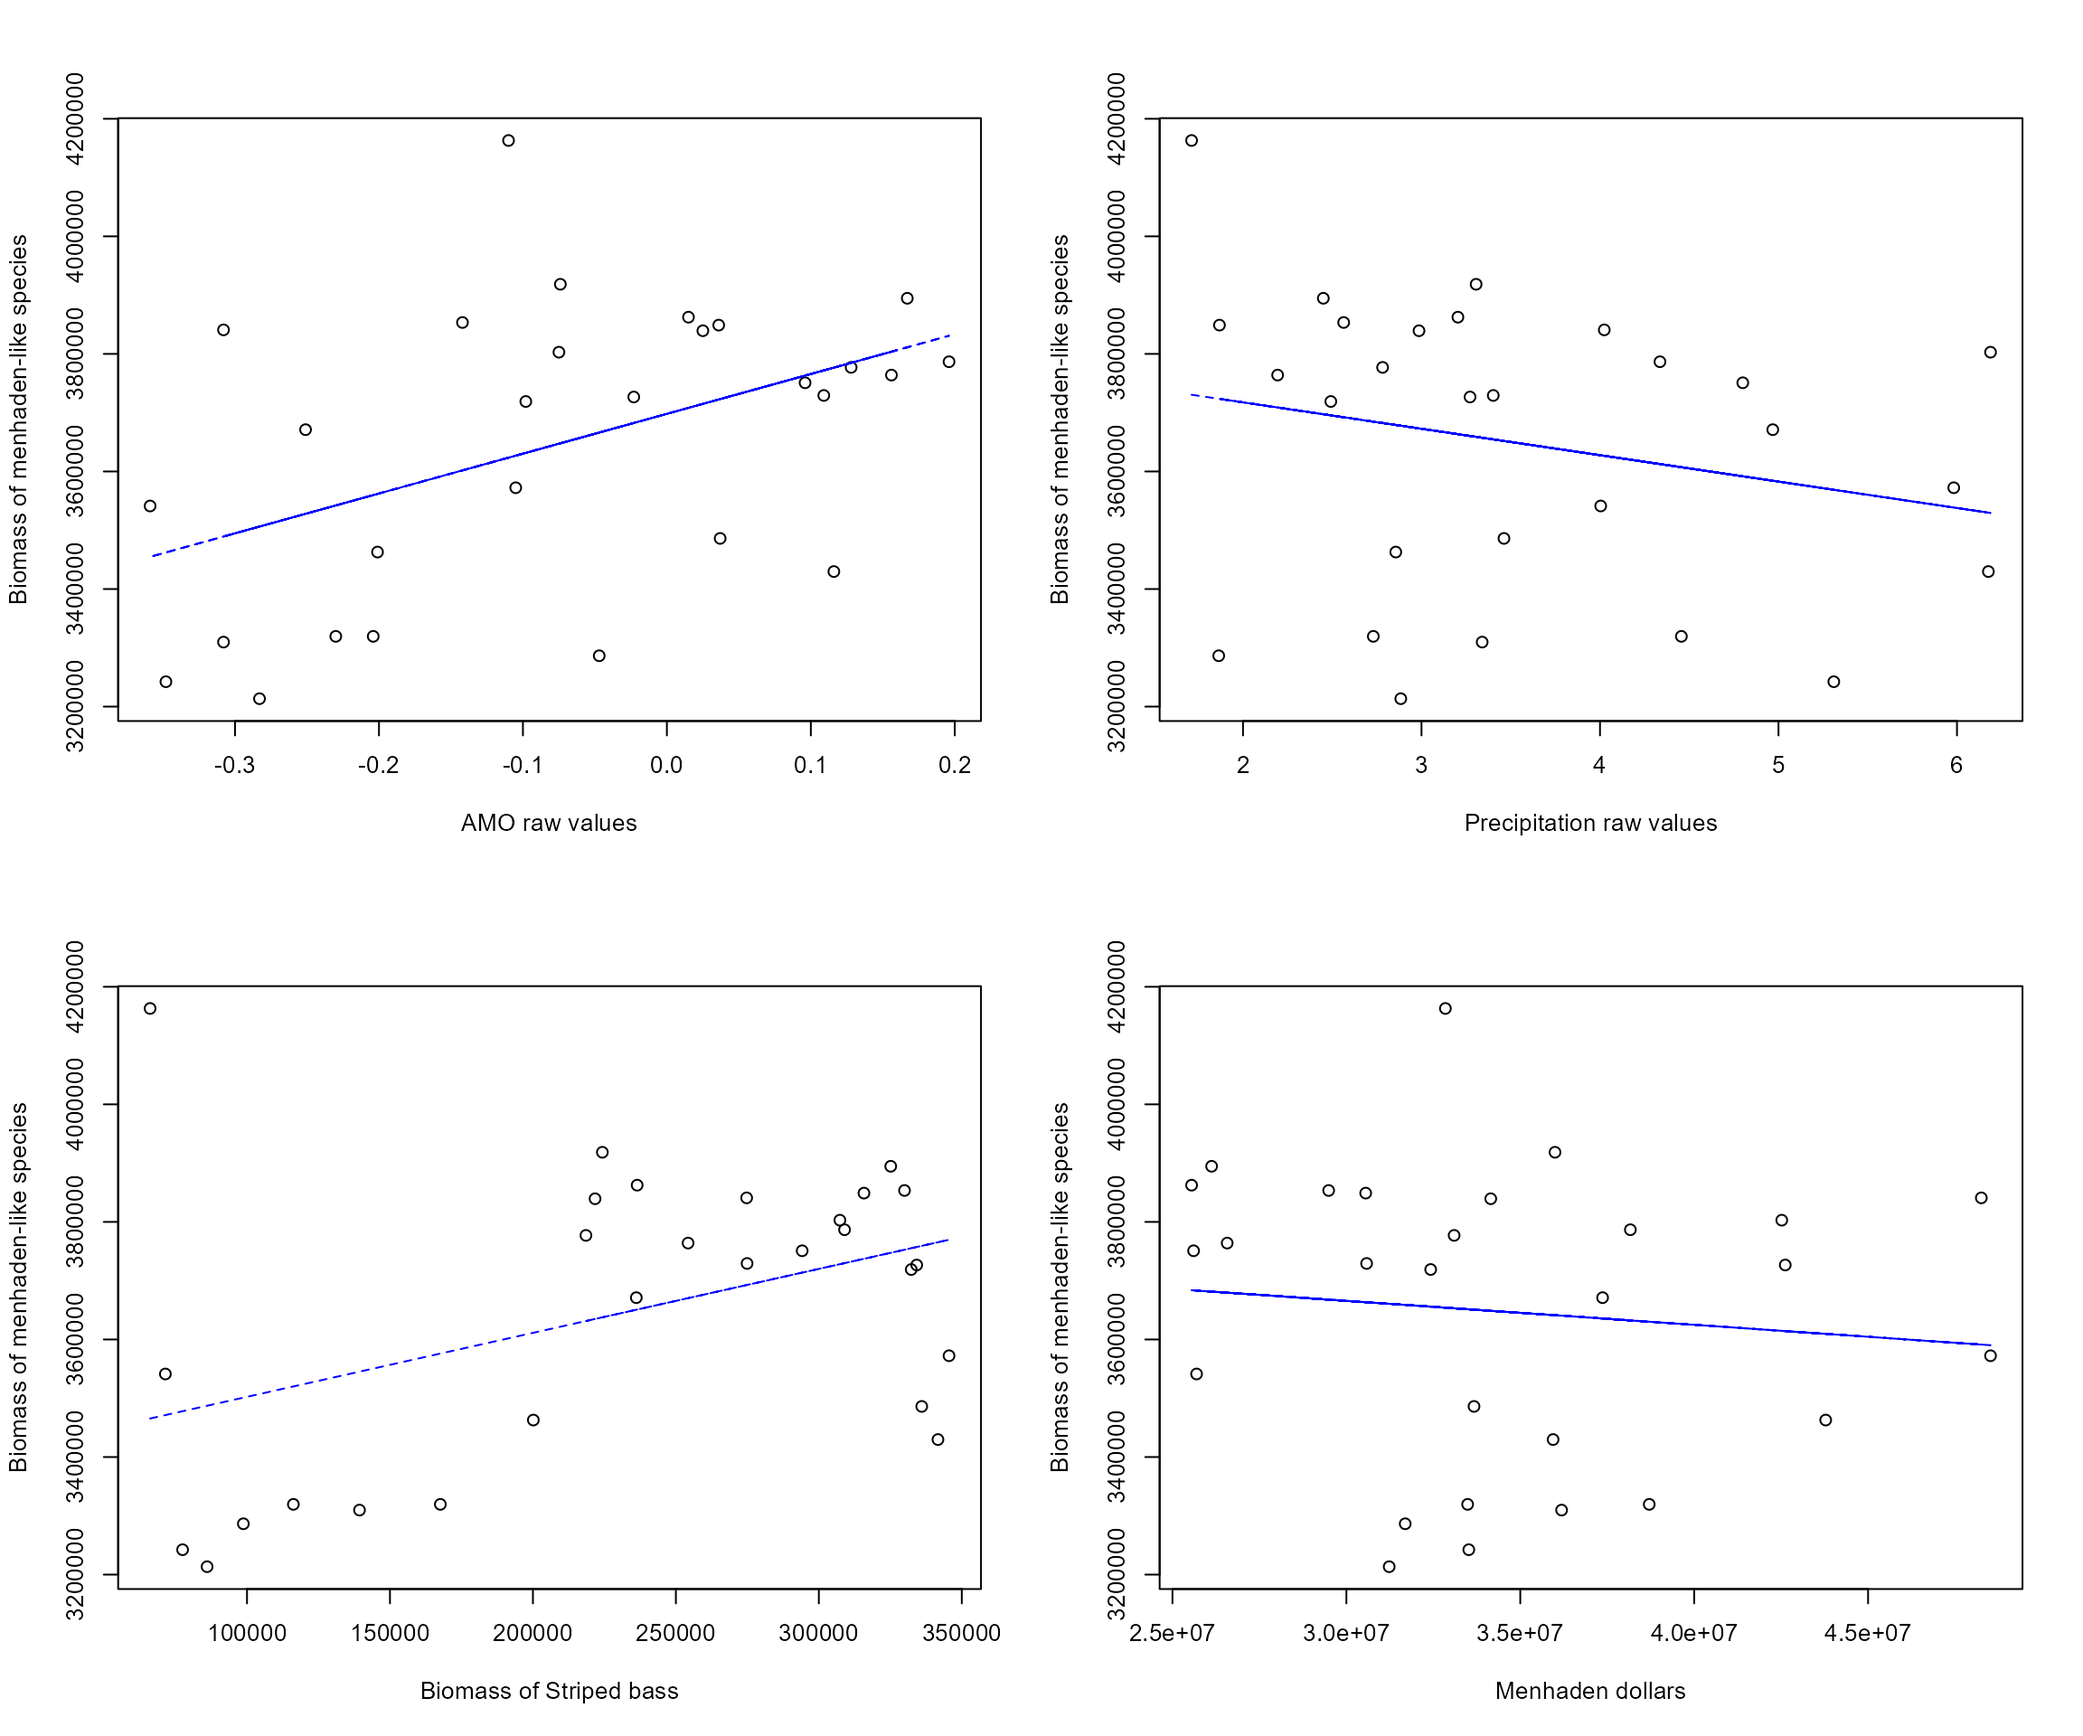
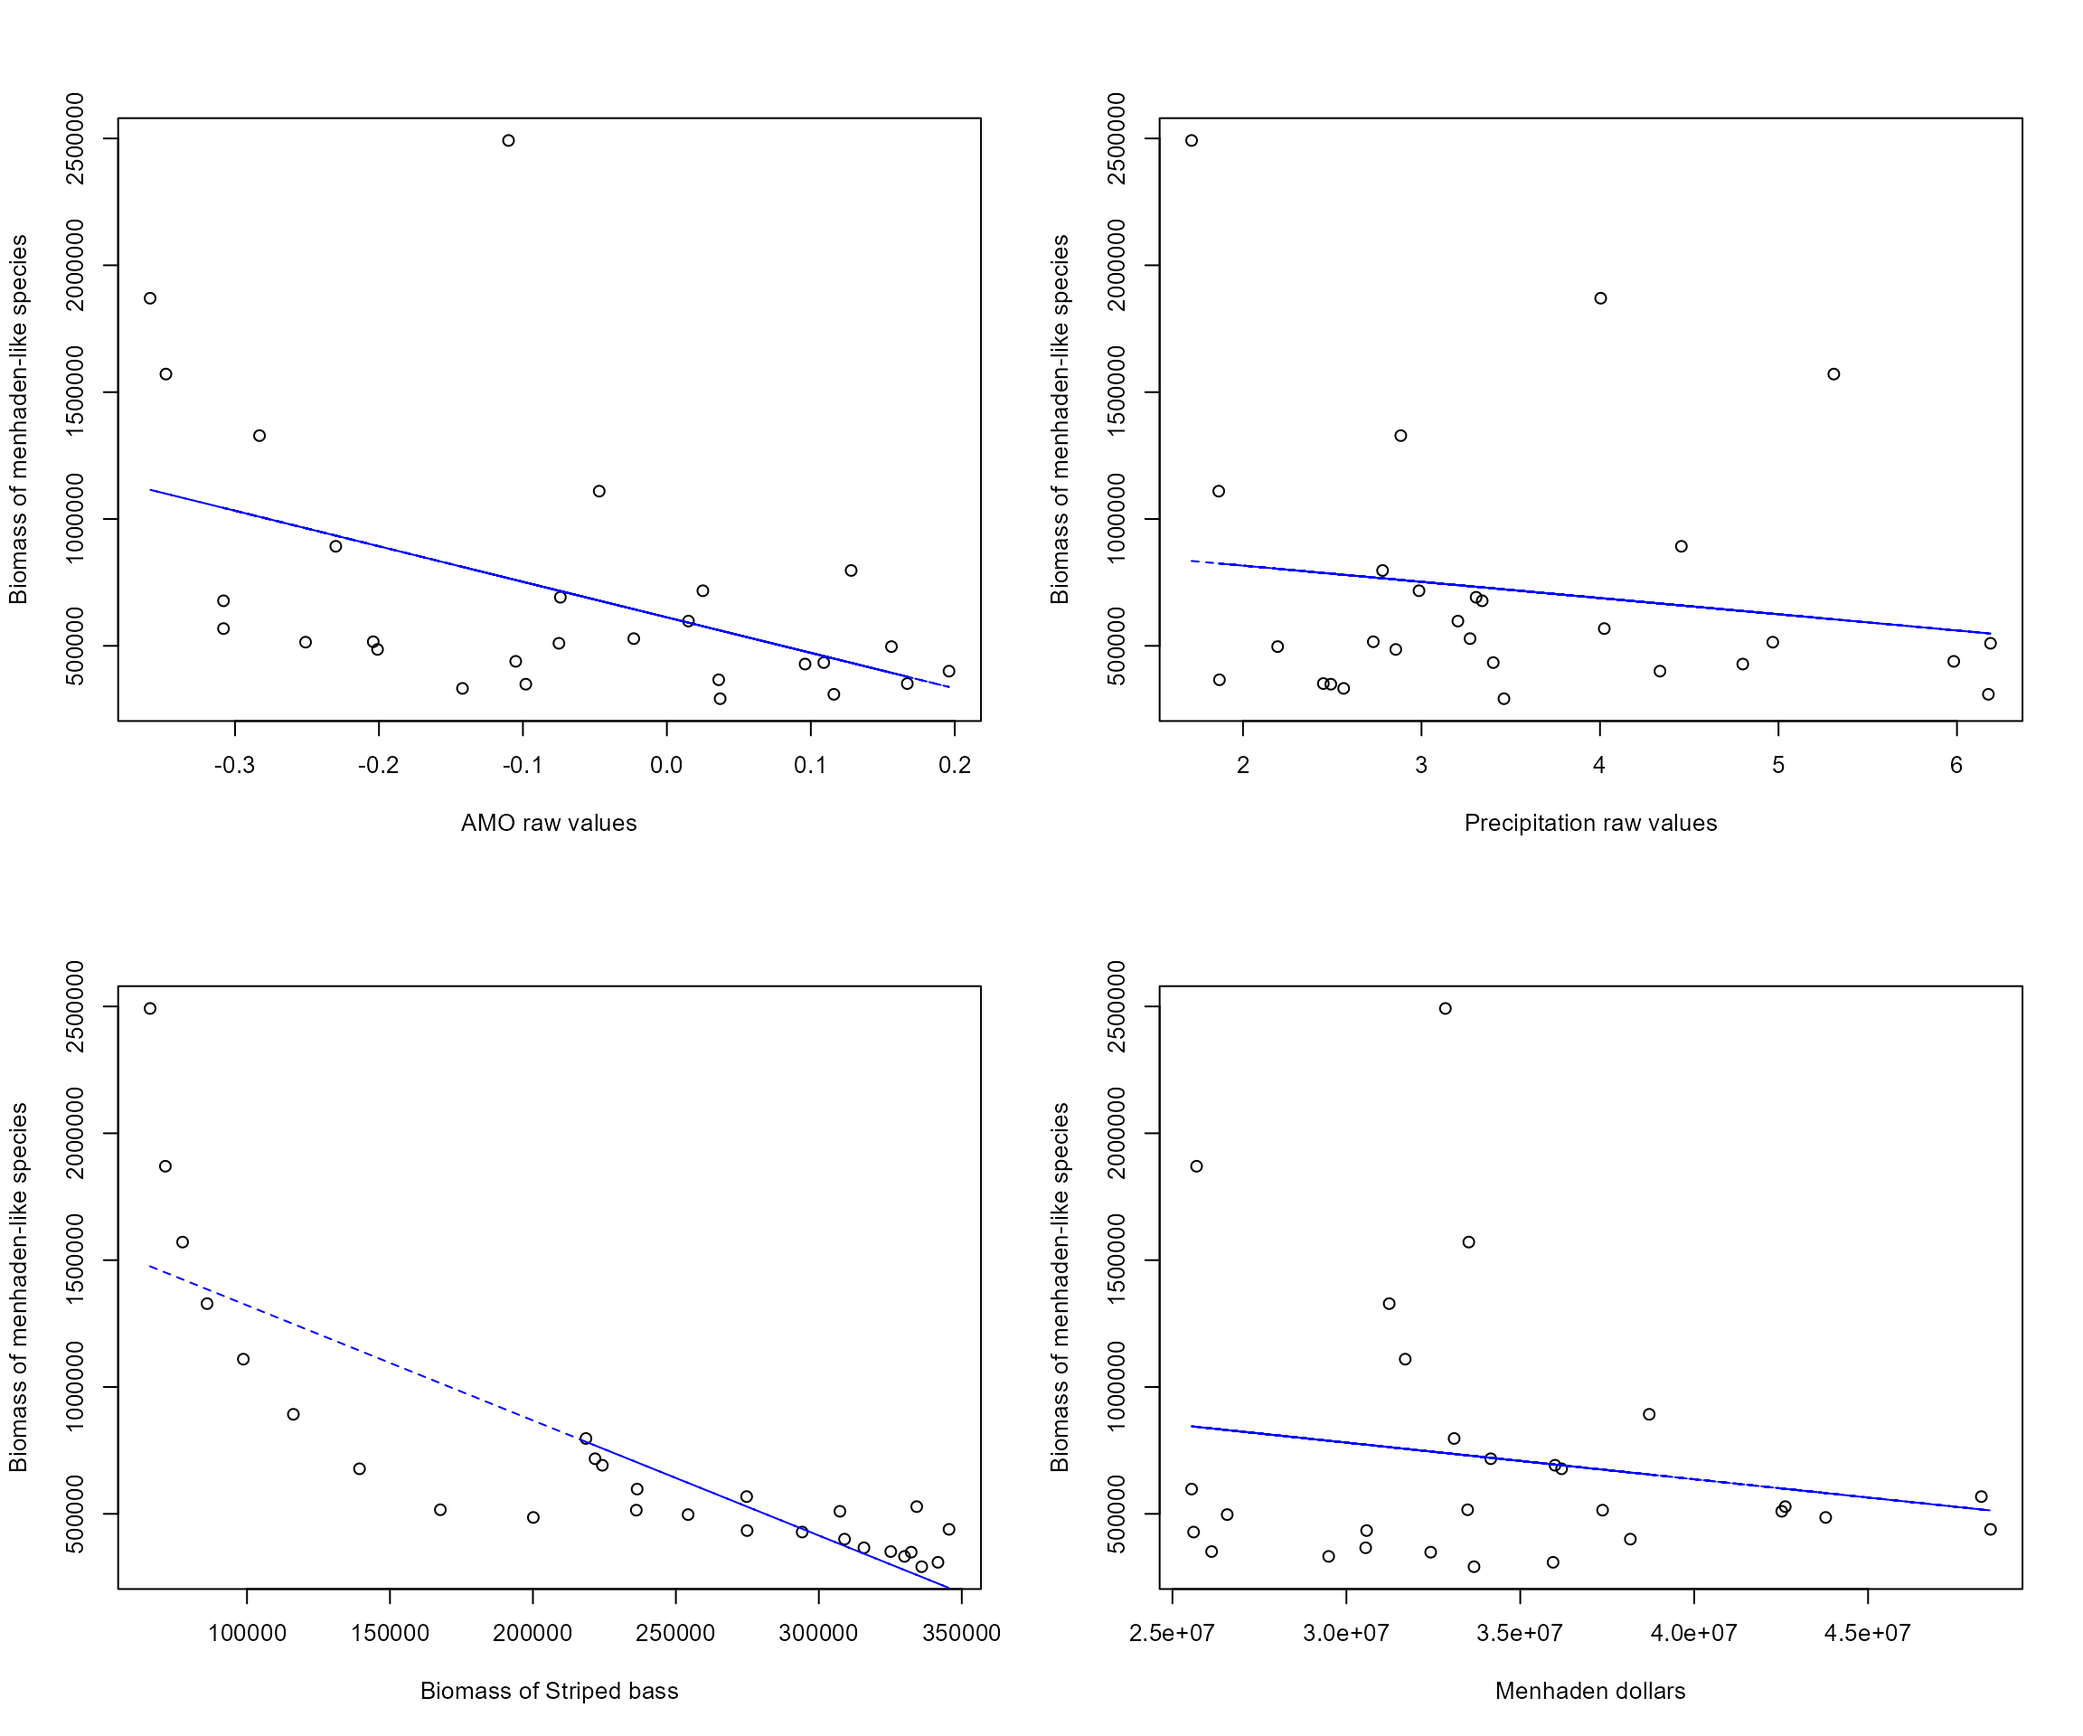
update vignette with case 0.1 results

diff --git a/docs/articles/06_Data_poor_stock_assessment.html b/docs/articles/06_Data_poor_stock_assessment.html
@@ -150,7 +150,7 @@
 <ul>
 <li>Case 0.2
 <ul>
-<li>Depletion relative to unfished: 0.9 based on</li>
+<li>Depletion relative to unfished: 0.9 based on ballpark values from EwE</li>
 <li>
 <span class="math inline">\(B_{MSY}\)</span> relative to unfished: 0.3 (based on fecundity target value from Beaufort Stock Assessment report)</li>
 </ul>
@@ -158,7 +158,7 @@
 </ul>
 <p><img src="06_Data_poor_stock_assessment_files/figure-html/unnamed-chunk-3-1.png" width="1152"><img src="06_Data_poor_stock_assessment_files/figure-html/unnamed-chunk-3-2.png" width="1152"></p>
 <ul>
-<li>Cases 1-4 are based on the settings from case 0.2
+<li>Cases 1-4 are based on the settings from case 0.1
 <ul>
 <li>Case 1: Link Atlantic Multidecadal Oscillation Index with menhaden biomass estimates and adjust projections: AMO is an indicator of climate conditions and would affect recruitment variability of menhaden-like species</li>
 <li>Case 2: Link precipitation index with menhaden biomass estimates and adjust projections: precipitation alters availability of high-salinity habitat and may affect menhaden-like species through nutrient loading</li>
@@ -179,72 +179,72 @@
 <span class="co">## </span>
 <span class="co">## Residuals:</span>
 <span class="co">##     Min      1Q  Median      3Q     Max </span>
-<span class="co">## -379708 -189666   -9974  130684  539574 </span>
+<span class="co">## -478923 -331866  -45910  112318 1725490 </span>
 <span class="co">## </span>
 <span class="co">## Coefficients:</span>
 <span class="co">##                             Estimate Std. Error t value Pr(&gt;|t|)    </span>
-<span class="co">## (Intercept)                  3698051      46087   80.24   &lt;2e-16 ***</span>
-<span class="co">## amo_unsmooth_lag1$raw_value   677650     252945    2.68    0.013 *  </span>
+<span class="co">## (Intercept)                   612396      97673    6.27  1.2e-06 ***</span>
+<span class="co">## amo_unsmooth_lag1$raw_value -1400457     536066   -2.61    0.015 *  </span>
 <span class="co">## ---</span>
 <span class="co">## Signif. codes:  0 '***' 0.001 '**' 0.01 '*' 0.05 '.' 0.1 ' ' 1</span>
 <span class="co">## </span>
-<span class="co">## Residual standard error: 223000 on 26 degrees of freedom</span>
-<span class="co">## Multiple R-squared:  0.216,  Adjusted R-squared:  0.186 </span>
-<span class="co">## F-statistic: 7.18 on 1 and 26 DF,  p-value: 0.0126</span></code></pre>
+<span class="co">## Residual standard error: 472000 on 26 degrees of freedom</span>
+<span class="co">## Multiple R-squared:  0.208,  Adjusted R-squared:  0.177 </span>
+<span class="co">## F-statistic: 6.82 on 1 and 26 DF,  p-value: 0.0147</span></code></pre>
 <pre><code><span class="co">## </span>
 <span class="co">## Call:</span>
 <span class="co">## lm(formula = menhaden_b ~ pcp$raw_value)</span>
 <span class="co">## </span>
 <span class="co">## Residuals:</span>
 <span class="co">##     Min      1Q  Median      3Q     Max </span>
-<span class="co">## -464415 -178376   70499  168122  432569 </span>
+<span class="co">## -458329 -279853 -132201  -19271 1657320 </span>
 <span class="co">## </span>
 <span class="co">## Coefficients:</span>
-<span class="co">##               Estimate Std. Error t value Pr(&gt;|t|)    </span>
-<span class="co">## (Intercept)    3807437     137104   27.77   &lt;2e-16 ***</span>
-<span class="co">## pcp$raw_value   -44932      36287   -1.24     0.23    </span>
+<span class="co">##               Estimate Std. Error t value Pr(&gt;|t|)   </span>
+<span class="co">## (Intercept)     944015     293624    3.22   0.0035 **</span>
+<span class="co">## pcp$raw_value   -63902      77714   -0.82   0.4184   </span>
 <span class="co">## ---</span>
 <span class="co">## Signif. codes:  0 '***' 0.001 '**' 0.01 '*' 0.05 '.' 0.1 ' ' 1</span>
 <span class="co">## </span>
-<span class="co">## Residual standard error: 244000 on 26 degrees of freedom</span>
-<span class="co">## Multiple R-squared:  0.0557, Adjusted R-squared:  0.0194 </span>
-<span class="co">## F-statistic: 1.53 on 1 and 26 DF,  p-value: 0.227</span></code></pre>
+<span class="co">## Residual standard error: 523000 on 26 degrees of freedom</span>
+<span class="co">## Multiple R-squared:  0.0253, Adjusted R-squared:  -0.0121 </span>
+<span class="co">## F-statistic: 0.676 on 1 and 26 DF,  p-value: 0.418</span></code></pre>
 <pre><code><span class="co">## </span>
 <span class="co">## Call:</span>
 <span class="co">## lm(formula = menhaden_b ~ bass_bio$bass_bio)</span>
 <span class="co">## </span>
 <span class="co">## Residuals:</span>
 <span class="co">##     Min      1Q  Median      3Q     Max </span>
-<span class="co">## -335637 -204054   36866  120222  697547 </span>
+<span class="co">## -498894 -110151   18152   81556 1016290 </span>
 <span class="co">## </span>
 <span class="co">## Coefficients:</span>
-<span class="co">##                   Estimate Std. Error t value Pr(&gt;|t|)    </span>
-<span class="co">## (Intercept)       3.39e+06   1.16e+05   29.27   &lt;2e-16 ***</span>
-<span class="co">## bass_bio$bass_bio 1.09e+00   4.61e-01    2.36    0.026 *  </span>
+<span class="co">##                    Estimate Std. Error t value Pr(&gt;|t|)    </span>
+<span class="co">## (Intercept)        1.78e+06   1.50e+05   11.84  5.6e-12 ***</span>
+<span class="co">## bass_bio$bass_bio -4.54e+00   5.96e-01   -7.61  4.5e-08 ***</span>
 <span class="co">## ---</span>
 <span class="co">## Signif. codes:  0 '***' 0.001 '**' 0.01 '*' 0.05 '.' 0.1 ' ' 1</span>
 <span class="co">## </span>
-<span class="co">## Residual standard error: 228000 on 26 degrees of freedom</span>
-<span class="co">## Multiple R-squared:  0.176,  Adjusted R-squared:  0.145 </span>
-<span class="co">## F-statistic: 5.57 on 1 and 26 DF,  p-value: 0.0261</span></code></pre>
+<span class="co">## Residual standard error: 3e+05 on 26 degrees of freedom</span>
+<span class="co">## Multiple R-squared:  0.69,   Adjusted R-squared:  0.678 </span>
+<span class="co">## F-statistic: 57.9 on 1 and 26 DF,  p-value: 4.47e-08</span></code></pre>
 <pre><code><span class="co">## </span>
 <span class="co">## Call:</span>
 <span class="co">## lm(formula = sub_menhaden_b ~ sub_menhaden_dollars)</span>
 <span class="co">## </span>
 <span class="co">## Residuals:</span>
 <span class="co">##     Min      1Q  Median      3Q     Max </span>
-<span class="co">## -447229 -176391   66653  185591  508997 </span>
+<span class="co">## -485234 -350167  -93031   53275 1752243 </span>
 <span class="co">## </span>
 <span class="co">## Coefficients:</span>
-<span class="co">##                       Estimate Std. Error t value Pr(&gt;|t|)    </span>
-<span class="co">## (Intercept)           3.79e+06   2.63e+05   14.38  6.9e-14 ***</span>
-<span class="co">## sub_menhaden_dollars -4.07e-03   7.52e-03   -0.54     0.59    </span>
+<span class="co">##                       Estimate Std. Error t value Pr(&gt;|t|)  </span>
+<span class="co">## (Intercept)           1.21e+06   5.49e+05    2.21    0.036 *</span>
+<span class="co">## sub_menhaden_dollars -1.44e-02   1.57e-02   -0.92    0.366  </span>
 <span class="co">## ---</span>
 <span class="co">## Signif. codes:  0 '***' 0.001 '**' 0.01 '*' 0.05 '.' 0.1 ' ' 1</span>
 <span class="co">## </span>
-<span class="co">## Residual standard error: 250000 on 26 degrees of freedom</span>
-<span class="co">## Multiple R-squared:  0.0112, Adjusted R-squared:  -0.0269 </span>
-<span class="co">## F-statistic: 0.293 on 1 and 26 DF,  p-value: 0.593</span></code></pre>
+<span class="co">## Residual standard error: 522000 on 26 degrees of freedom</span>
+<span class="co">## Multiple R-squared:  0.0315, Adjusted R-squared:  -0.00575 </span>
+<span class="co">## F-statistic: 0.846 on 1 and 26 DF,  p-value: 0.366</span></code></pre>
 <p><img src="06_Data_poor_stock_assessment_files/figure-html/unnamed-chunk-4-1.png" width="1152"></p>
 <ul>
 <li><p>Status of indicators from cases 1 - 4 <img src="06_Data_poor_stock_assessment_files/figure-html/unnamed-chunk-5-1.png" width="1152"></p></li>
